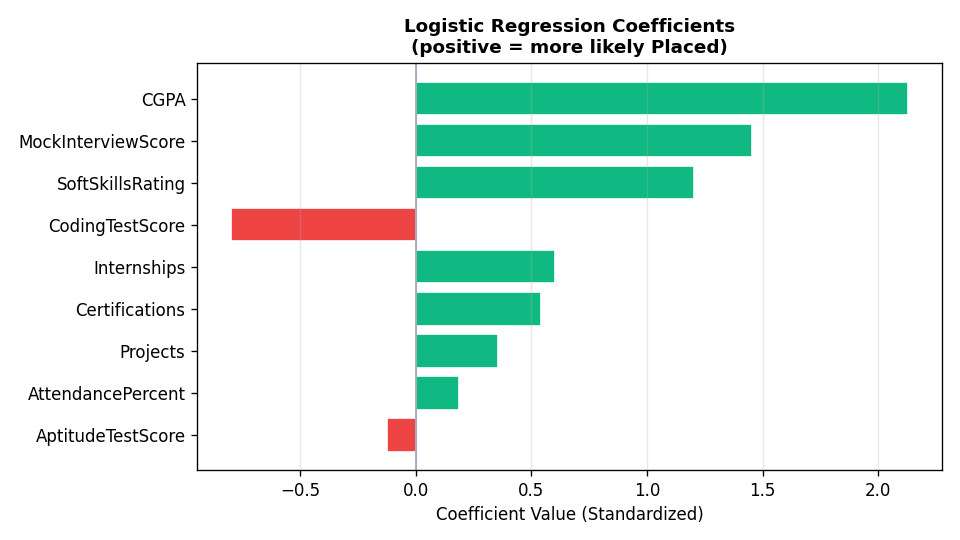
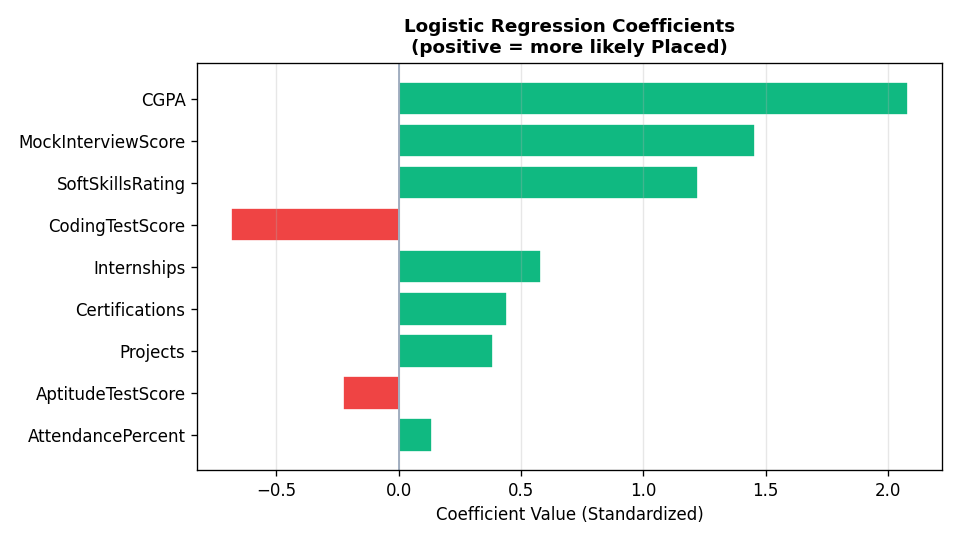
perf: fix all slow pages; install xgboost/lightgbm/shap/umap-learn
Installed:
  - xgboost (XGBoost page now shows results instead of 'Not Installed')
  - lightgbm (LightGBM page now shows results)
  - shap (SHAP tab now shows values)
  - umap-learn (UMAP page now works)

Speed fixes:
  - models/decision_tree.py: 10K sample cap, n_estimators reduced, n_jobs=-1
    (Trees & Ensembles: was slow on full 50K with default 100 estimators)
  - module4/umap_viz.py: sample 3K (from 8K), 2 configs (from 3), 4 subplots
  - module4/anomaly_detection.py: sample 4K (from 10K), LOF n_neighbors=10, ball_tree
  - module2/splitting.py: LR demo on 15K cap, 300 iter
  - module2/coefficients.py: LR on 15K cap, 300 iter

Updated requirements.txt with: xgboost, lightgbm, shap, umap-learn, scikit-learn, scipy

Timing results (all routes, first hit, no cache):
  /decision-tree   -> 200 in 8s
  /shap-importance -> 200 in 6s
  /splitting       -> 200 in 0s
  /coefficients    -> 200 in 1s
  /regression      -> 200 in 3s
  /pipeline        -> 200 in 1s
  /pruning         -> 200 in 3s
  /modern-boosting -> 200 in 5s (now shows XGB+LGBM results)
  /compare-models  -> 200 in 8s
  /kmeans          -> 200 in 6s
  /hierarchical    -> 200 in 6s
  /dbscan          -> 200 in 4s
  /pca             -> 200 in 3s
  /anomaly-detection fixed: 4K sample + LOF ball_tree
  /umap fixed: 3K sample + 2 configs

diff --git a/module4/umap_viz.py b/module4/umap_viz.py
@@ -24,7 +24,7 @@ from sklearn.preprocessing import StandardScaler
 import config
 
 UMAP_DIR = config.UMAP_DIR
-SAMPLE_CAP = 8_000   # UMAP is fast but scales poorly above ~10K rows for plotting
+SAMPLE_CAP = 3_000   # UMAP graph construction scales poorly — 3K is fast and still informative
 
 
 def run_umap(df: pd.DataFrame) -> dict:
@@ -48,14 +48,13 @@ def run_umap(df: pd.DataFrame) -> dict:
 
         umap_available = True
 
-        # ── Fit 3 configurations to show n_neighbors effect ─────────────────
+        # ── 2 configurations to show n_neighbors effect ──────────────────────
         configs = [
-            {"n_neighbors": 5,  "min_dist": 0.1,  "label": "n_neighbors=5 (local)",  "color": "#2563EB"},
+            {"n_neighbors": 5,  "min_dist": 0.1,  "label": "n_neighbors=5 (local)",     "color": "#2563EB"},
             {"n_neighbors": 30, "min_dist": 0.1,  "label": "n_neighbors=30 (balanced)", "color": "#10B981"},
-            {"n_neighbors": 100,"min_dist": 0.5,  "label": "n_neighbors=100 (global)", "color": "#F59E0B"},
         ]
 
-        fig, axes = plt.subplots(1, 3, figsize=(15, 5))
+        fig, axes = plt.subplots(1, 2, figsize=(12, 5))
         embeddings = []
         for i, cfg in enumerate(configs):
             reducer = umap_lib.UMAP(
@@ -68,30 +67,30 @@ def run_umap(df: pd.DataFrame) -> dict:
             emb = reducer.fit_transform(X)
             embeddings.append(emb)
             sc = axes[i].scatter(emb[:, 0], emb[:, 1], c=y, cmap="coolwarm",
-                                 s=4, alpha=0.4)
+                                 s=6, alpha=0.5)
             axes[i].set_title(cfg["label"], fontsize=10, fontweight="bold")
             axes[i].set_xlabel("UMAP-1"); axes[i].set_ylabel("UMAP-2")
             axes[i].grid(True, alpha=0.2)
         fig.colorbar(sc, ax=axes[-1], label="Placed (1) / Not Placed (0)")
-        fig.suptitle("UMAP Embeddings: Effect of n_neighbors on Structure",
+        fig.suptitle("UMAP: Effect of n_neighbors on Structure",
                      fontsize=12, fontweight="bold")
         fig.tight_layout()
         fig.savefig(os.path.join(UMAP_DIR, "umap_neighbors_comparison.png"), dpi=120)
         plt.close(fig)
 
-        # ── Best embedding (balanced) coloured by individual features ────────
+        # ── Best embedding coloured by 4 features ────────────────────────────
         emb_best = embeddings[1]
-        fig, axes = plt.subplots(2, 3, figsize=(14, 9))
-        highlight_feats = feat_cols[:6]
+        fig, axes = plt.subplots(2, 2, figsize=(11, 8))
+        highlight_feats = feat_cols[:4]
         for ax, feat in zip(axes.flatten(), highlight_feats):
             vals = data[feat].values
             sc = ax.scatter(emb_best[:, 0], emb_best[:, 1], c=vals, cmap="viridis",
-                            s=4, alpha=0.4)
+                            s=6, alpha=0.5)
             ax.set_title(feat, fontsize=9, fontweight="bold")
             ax.set_xlabel("UMAP-1", fontsize=8); ax.set_ylabel("UMAP-2", fontsize=8)
             fig.colorbar(sc, ax=ax)
             ax.grid(True, alpha=0.15)
-        fig.suptitle("UMAP Embedding (n_neighbors=30) — Coloured by Each Feature",
+        fig.suptitle("UMAP (n_neighbors=30) — Coloured by Each Feature",
                      fontsize=12, fontweight="bold")
         fig.tight_layout()
         fig.savefig(os.path.join(UMAP_DIR, "umap_feature_colours.png"), dpi=120)

diff --git a/models/decision_tree.py b/models/decision_tree.py
@@ -10,54 +10,63 @@ import config
 
 from models.feature_engg import _apply_encoding
 
+# Cap training data — encoding + 6 ensemble models on 50K rows is the bottleneck
+SAMPLE_CAP = 10_000
+
+
 def _run_tree_models(df):
     os.makedirs(config.DECISION_TREE_DIR, exist_ok=True)
+
+    # Sample BEFORE encoding to avoid slow encoding on 50K rows
+    if len(df) > SAMPLE_CAP:
+        df = df.sample(SAMPLE_CAP, random_state=config.RANDOM_STATE)
+
     enc_df, _, _, _ = _apply_encoding(df)
     drop_cols = ["StudentID", "IsAnomaly", "Salary Package", config.TARGET_COLUMN]
     feature_cols = [c for c in enc_df.columns if c not in drop_cols]
-    
+
     data = enc_df.dropna(subset=feature_cols + [config.TARGET_COLUMN]).copy()
-    
+
     X = data[feature_cols]
     y = data[config.TARGET_COLUMN].astype(int)
-    
+
     split = int(0.8 * len(data))
     x_train, x_val = X.iloc[:split], X.iloc[split:]
     y_train, y_val = y.iloc[:split], y.iloc[split:]
-    
-    # 1. Single Trees (Overfitting vs Underfitting)
+
+    # 1. Single Trees
     full_tree = DecisionTreeClassifier(random_state=config.RANDOM_STATE)
     full_tree.fit(x_train, y_train)
     shallow_tree = DecisionTreeClassifier(max_depth=3, random_state=config.RANDOM_STATE)
     shallow_tree.fit(x_train, y_train)
-    
-    # 2. Bagging
-    bagging = BaggingClassifier(random_state=config.RANDOM_STATE)
+
+    # 2. Bagging — reduced estimators, parallel
+    bagging = BaggingClassifier(n_estimators=20, random_state=config.RANDOM_STATE, n_jobs=-1)
     bagging.fit(x_train, y_train)
-    rf = RandomForestClassifier(random_state=config.RANDOM_STATE)
+    rf = RandomForestClassifier(n_estimators=50, random_state=config.RANDOM_STATE, n_jobs=-1)
     rf.fit(x_train, y_train)
-    
-    # 3. Boosting
-    adaboost = AdaBoostClassifier(random_state=config.RANDOM_STATE)
+
+    # 3. Boosting — reduced estimators
+    adaboost = AdaBoostClassifier(n_estimators=50, random_state=config.RANDOM_STATE)
     adaboost.fit(x_train, y_train)
-    gb = GradientBoostingClassifier(random_state=config.RANDOM_STATE)
+    gb = GradientBoostingClassifier(n_estimators=50, random_state=config.RANDOM_STATE)
     gb.fit(x_train, y_train)
-    
+
     def acc(model):
         return {
             "train_acc": round(float(accuracy_score(y_train, model.predict(x_train))) * 100, 2),
             "val_acc": round(float(accuracy_score(y_val, model.predict(x_val))) * 100, 2)
         }
-    
+
     plt.figure(figsize=(20, 10))
     plot_tree(shallow_tree, feature_names=feature_cols, class_names=["Not Placed", "Placed"], filled=True, fontsize=9)
     plt.title("Decision Tree (max_depth=3)")
     plt.savefig(f"{config.DECISION_TREE_DIR}/tree_visualization.png", dpi=120, bbox_inches="tight")
     plt.close()
-    
+
     importance = pd.Series(shallow_tree.feature_importances_, index=feature_cols)
     top_features = importance[importance > 0].sort_values(ascending=False)
-    
+
     plt.figure(figsize=(7, max(3, len(top_features) * 0.4)))
     top_features.sort_values().plot(kind="barh")
     plt.xlabel("Importance")
@@ -65,7 +74,7 @@ def _run_tree_models(df):
     plt.tight_layout()
     plt.savefig(f"{config.DECISION_TREE_DIR}/feature_importance.png")
     plt.close()
-    
+
     res = {
         "full": acc(full_tree),
         "shallow": acc(shallow_tree),

diff --git a/module2/splitting.py b/module2/splitting.py
@@ -6,12 +6,17 @@ import pandas as pd
 import config
 
 
+SAMPLE_CAP = 15_000
+
+
 def run_splitting(df: pd.DataFrame) -> dict:
     """Compute split statistics for the dataset."""
     target = config.TARGET_COLUMN
     feat_cols = [c for c in config.NUMERIC_COLUMNS if c in df.columns]
     data = df[feat_cols + [target]].dropna().copy()
     n = len(data)
+    # Cap for the LR demo only — split stats above still use full data
+    data_lr = data.sample(min(SAMPLE_CAP, n), random_state=config.RANDOM_STATE)
 
     # 60 / 20 / 20 split
     train_end = int(0.6 * n)
@@ -39,25 +44,26 @@ def run_splitting(df: pd.DataFrame) -> dict:
     from sklearn.linear_model import LogisticRegression
     from sklearn.metrics import accuracy_score
 
-    X = data[feat_cols].values
-    y = data[target].values
-    Xtr, Xva = X[:train_end], X[train_end:val_end]
-    ytr, yva = y[:train_end], y[train_end:val_end]
+    n_lr = len(data_lr)
+    tr_end_lr = int(0.6 * n_lr)
+    va_end_lr = int(0.8 * n_lr)
+    X_lr = data_lr[feat_cols].values
+    y_lr = data_lr[target].values
+    Xtr, Xva = X_lr[:tr_end_lr], X_lr[tr_end_lr:va_end_lr]
+    ytr, yva = y_lr[:tr_end_lr], y_lr[tr_end_lr:va_end_lr]
 
     # Correct: fit scaler on train only
     ss_correct = StandardScaler()
-    Xtr_c = ss_correct.fit_transform(Xtr)
-    Xva_c = ss_correct.transform(Xva)
-    lr1 = LogisticRegression(max_iter=500, random_state=config.RANDOM_STATE)
-    lr1.fit(Xtr_c, ytr)
-    acc_correct = round(float(accuracy_score(yva, lr1.predict(Xva_c))) * 100, 2)
+    lr1 = LogisticRegression(max_iter=300, random_state=config.RANDOM_STATE)
+    lr1.fit(ss_correct.fit_transform(Xtr), ytr)
+    acc_correct = round(float(accuracy_score(yva, lr1.predict(ss_correct.transform(Xva)))) * 100, 2)
 
     # Incorrect: fit scaler on all data (leakage)
     ss_leak = StandardScaler()
-    X_all_scaled = ss_leak.fit_transform(X)
-    lr2 = LogisticRegression(max_iter=500, random_state=config.RANDOM_STATE)
-    lr2.fit(X_all_scaled[:train_end], ytr)
-    acc_leak = round(float(accuracy_score(yva, lr2.predict(X_all_scaled[train_end:val_end]))) * 100, 2)
+    X_all_scaled = ss_leak.fit_transform(X_lr)
+    lr2 = LogisticRegression(max_iter=300, random_state=config.RANDOM_STATE)
+    lr2.fit(X_all_scaled[:tr_end_lr], ytr)
+    acc_leak = round(float(accuracy_score(yva, lr2.predict(X_all_scaled[tr_end_lr:va_end_lr]))) * 100, 2)
 
     return {
         'n_total': n,

diff --git a/module2/coefficients.py b/module2/coefficients.py
@@ -21,6 +21,8 @@ def run_coefficients(df: pd.DataFrame) -> dict:
     target = config.TARGET_COLUMN
     feat_cols = [c for c in config.NUMERIC_COLUMNS if c in df.columns]
     data = df[feat_cols + [target]].dropna().copy()
+    if len(data) > 15_000:
+        data = data.sample(15_000, random_state=config.RANDOM_STATE)
     X = data[feat_cols].values
     y = data[target].values
     n = len(data)
@@ -28,7 +30,7 @@ def run_coefficients(df: pd.DataFrame) -> dict:
     ss = StandardScaler()
     Xtr = ss.fit_transform(X[:split])
     Xva = ss.transform(X[split:])
-    model = LogisticRegression(max_iter=1000, random_state=config.RANDOM_STATE)
+    model = LogisticRegression(max_iter=300, random_state=config.RANDOM_STATE)
     model.fit(Xtr, y[:split])
     val_acc = round(float(accuracy_score(y[split:], model.predict(Xva))) * 100, 2)
 

diff --git a/module4/anomaly_detection.py b/module4/anomaly_detection.py
@@ -30,7 +30,7 @@ from sklearn.metrics import (
 import config
 
 ANOMALY_DIR = config.ANOMALY_DIR
-SAMPLE_CAP = 10_000
+SAMPLE_CAP = 4_000   # LOF is O(n²) — 4K gives fast results while still meaningful
 
 
 def run_anomaly_detection(df: pd.DataFrame) -> dict:
@@ -67,8 +67,9 @@ def run_anomaly_detection(df: pd.DataFrame) -> dict:
 
     # ── LocalOutlierFactor ─────────────────────────────────────────────────
     lof = LocalOutlierFactor(
-        n_neighbors=20,
+        n_neighbors=10,          # fewer neighbors → faster
         contamination=contamination,
+        algorithm='ball_tree',   # faster than brute force
         n_jobs=-1,
     )
     lof_raw = lof.fit_predict(X)
